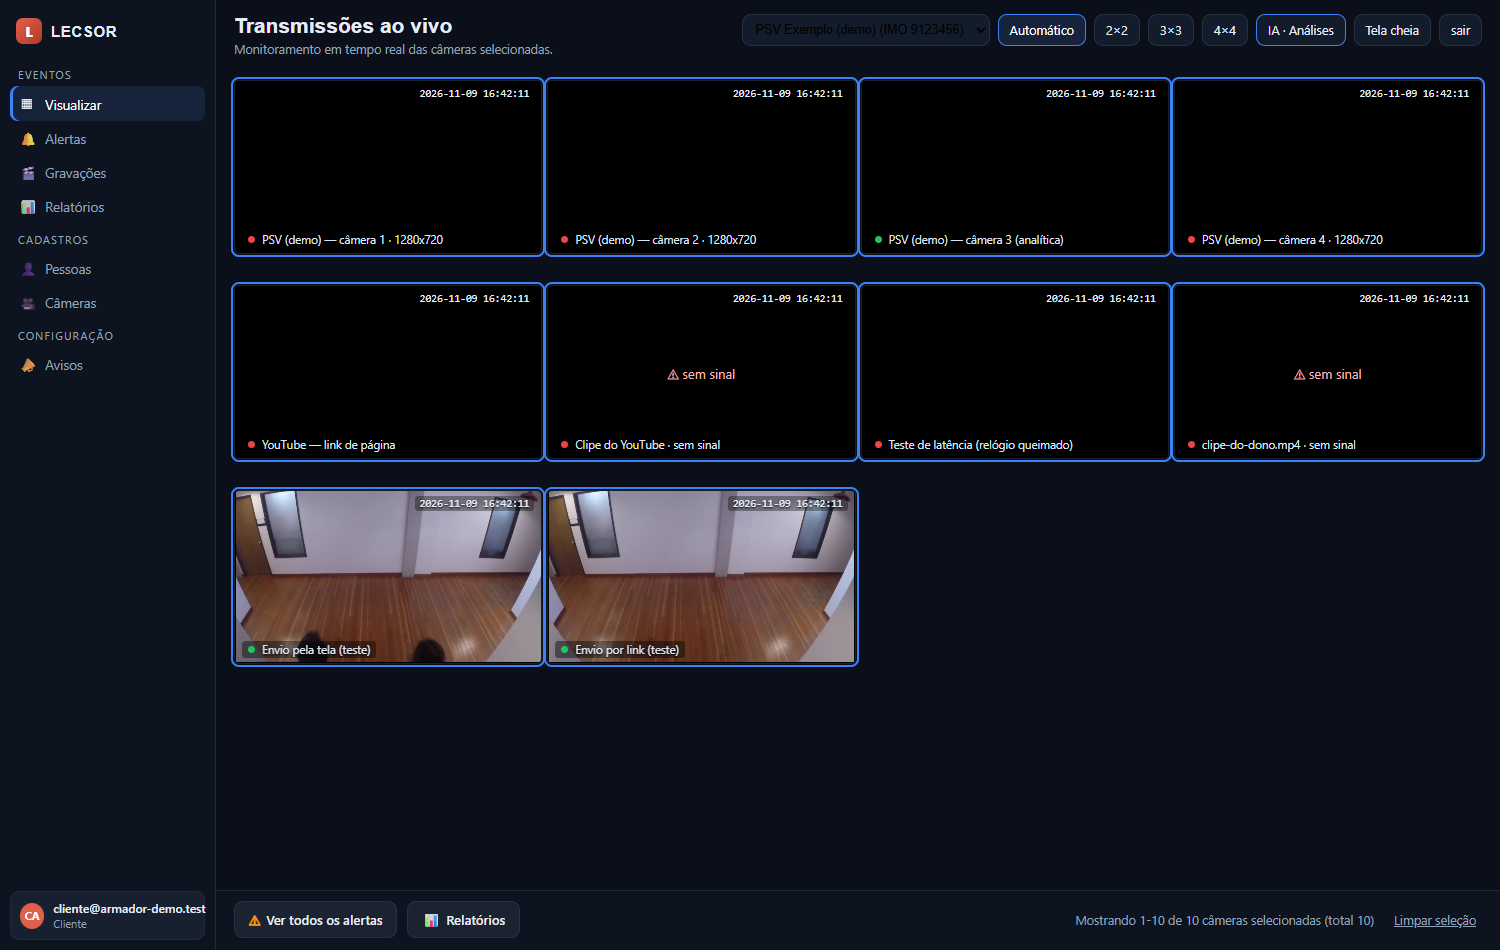
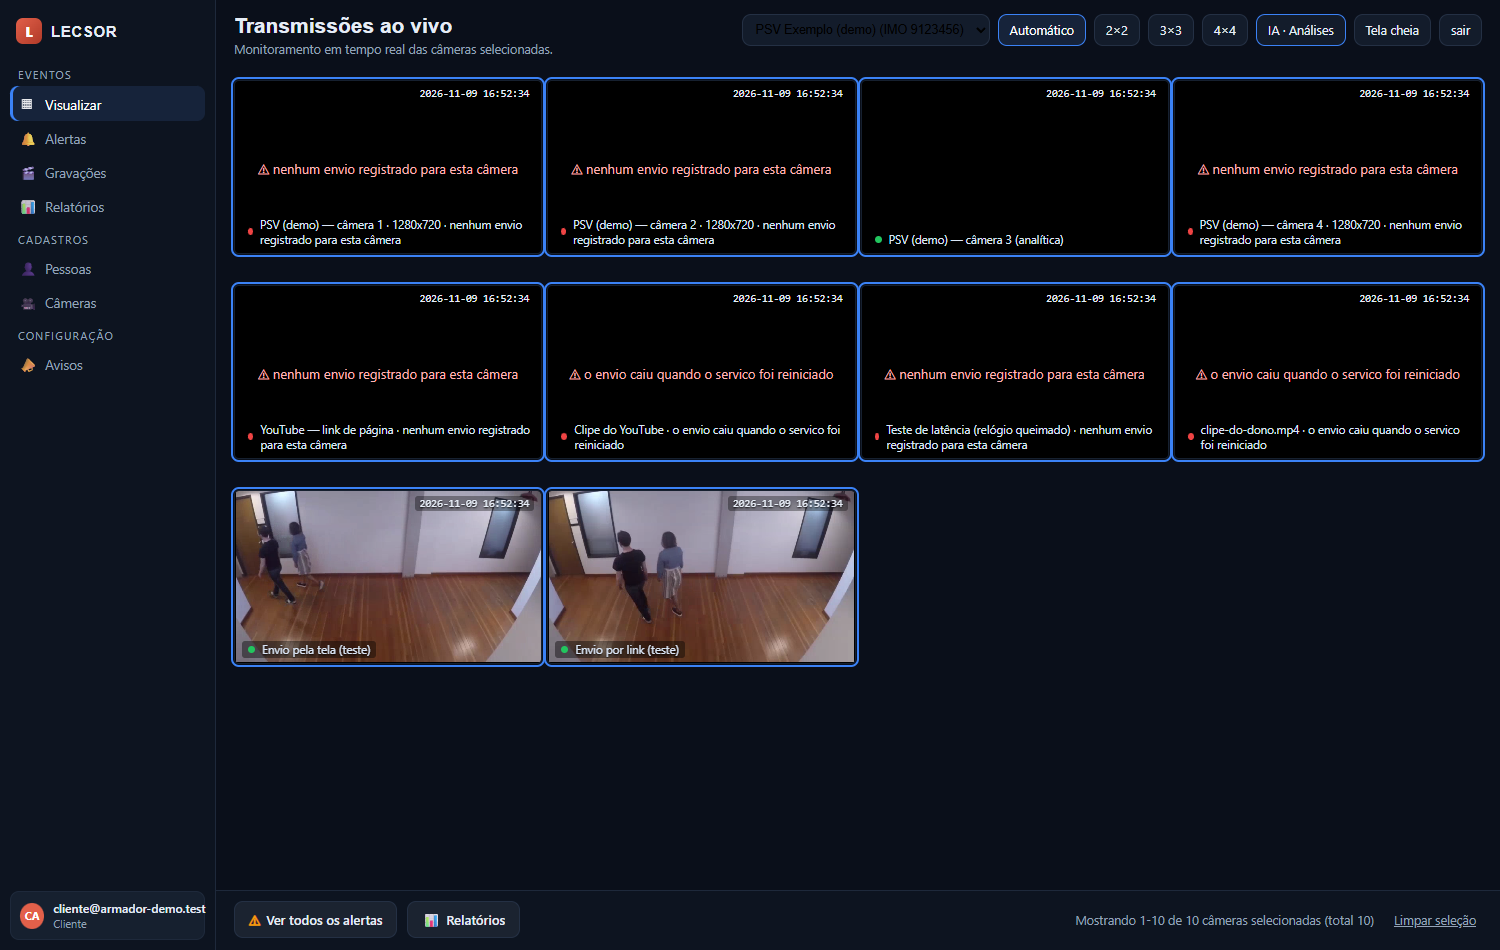
Entrada bruta da fonte crua: compressao e banda economizada do streaming ao vivo

diff --git a/admin/admin.js b/admin/admin.js
@@ -333,7 +333,8 @@ function telaTempoReal(t) {
     const linhas = (m.fluxos || []).map((f) => ({
       fluxo: f.fluxo_id,
       comprimindo: f.vivo ? 'sim' : (f.erro ? 'ERRO: ' + f.erro : 'sem sinal'),
-      entrada: (f.entrada_mbps === null ? '—' : fmt(f.entrada_mbps, 3) + ' Mbps'),
+      entrada: (f.entrada_mbps === null ? '—' : fmt(f.entrada_mbps, 3) + ' Mbps' +
+        ((f.entrada_fonte || '').indexOf('bruto') === 0 ? ' (bruto)' : '')),
       saida: (f.saida_mbps === null ? '—' : fmt(f.saida_mbps, 3) + ' Mbps'),
       compressao: (f.compressao_pct === null ? '—' : fmt(f.compressao_pct) + '%'),
       economia: (f.economia_mbps === null ? '—' : fmt(f.economia_mbps, 3) + ' Mbps'),
@@ -555,7 +556,8 @@ function telaProducao(t) {
       ['Média de compressão', c.compressao_medio_pct === null ? '—' : fmt(c.compressao_medio_pct) + '%'],
       ['Banda utilizada', (c.banda_utilizada_mbps === null ? '—' : fmt(c.banda_utilizada_mbps, 3) + ' Mbps')],
       ['Banda economizada', (c.banda_economizada_mbps === null ? '—' : fmt(c.banda_economizada_mbps, 3) + ' Mbps'
-        + (c.entrada_mbps ? ' (entrada ' + fmt(c.entrada_mbps, 3) + ')' : ''))],
+        + (c.entrada_mbps ? ' (entrada ' + fmt(c.entrada_mbps, 3) + ' Mbps' +
+            ((c.entrada_fonte || '').indexOf('bruto') === 0 ? ', bruto teórico da captura' : '') + ')' : ''))],
       ['Horas de streaming', fmt(c.horas_streaming) + ' h'],
       ['Disponibilidade', (c.disponibilidade_pct === null || c.disponibilidade_pct === undefined)
         ? '—' : fmt(c.disponibilidade_pct, 2) + '% (' + fmt(c.minutos_no_ar, 0) + ' de ' + fmt(A.prodJanelaMin, 0) + ' min)'],

diff --git a/ground/producao.py b/ground/producao.py
@@ -18,11 +18,15 @@ from __future__ import annotations
 
 import json
 import os
+import sys
 import re
 import subprocess
 import time
 import urllib.request
 from datetime import datetime, timedelta, timezone
+
+sys.path.insert(0, str(os.path.dirname(os.path.abspath(__file__))))
+from entrada import entrada_teorica_kbps, origem_da_entrada  # noqa: E402
 
 from etapas import RAIZ, _agora as agora, conexao_banco, envio  # reaproveita a base da bancada
 
@@ -78,6 +82,7 @@ def fechar_minutos(*, limpar_amostras: bool = False) -> dict:
     with conexao_banco() as c:
         linhas = [dict(x) for x in c.execute("""
             SELECT a.ingestao_id, i.fluxo_id, i.camera_id, i.bitrate_entrada_kbps, i.fonte,
+                   MAX(i.resolucao) AS resolucao, MAX(i.fps_nativo) AS fps_nativo,
                    substr(a.em, 1, 16) AS minuto,   -- mantem o horario LOCAL (strftime converteria para UTC)
                    AVG(a.taxa_saida_kbps) AS saida_medio, AVG(a.corte_pct) AS corte_medio,
                    COUNT(*) AS amostras
@@ -94,7 +99,8 @@ def fechar_minutos(*, limpar_amostras: bool = False) -> dict:
             entrada = comp.get("bitrate_entrada_kbps")
             if not entrada and l.get("fonte"):
                 entrada = por_arquivo.get(os.path.basename(str(l["fonte"]).replace("\\", "/")))
-            entrada = entrada or l["bitrate_entrada_kbps"]
+            if not entrada:
+                entrada = entrada_teorica_kbps(l.get("resolucao"), l.get("fps_nativo"))
             saida = l["saida_medio"] or 0
             # a compressao do minuto e' recalculada com a entrada CERTA (do arquivo original):
             # o corte gravado na amostra usa a entrada da linha de ingestao, que no caso de um
@@ -272,7 +278,9 @@ def tempo_real() -> dict:
     fluxos = []
     for d in linhas:
         comp = originais.get(d["fluxo_id"]) or {}
-        entrada = (comp.get("bitrate_entrada_kbps") or d.get("bitrate_entrada_kbps") or 0) / 1000.0
+        medida_kbps = comp.get("bitrate_entrada_kbps") or d.get("bitrate_entrada_kbps")
+        entrada_kbps = medida_kbps or entrada_teorica_kbps(d.get("resolucao"), d.get("fps_nativo") or d.get("fps"))
+        entrada = (entrada_kbps or 0) / 1000.0
         saida = (d.get("bitrate_saida_kbps") or 0) / 1000.0
         cam = cameras.get(d.get("camera_id")) or por_fluxo.get(d["fluxo_id"]) or {}
         idade = _idade(d.get("atualizado_em") or "")
@@ -286,7 +294,9 @@ def tempo_real() -> dict:
             "estado": "enviando" if vivo else "parado",
             "erro": d.get("erro"),
             "idade_s": round(idade, 1) if idade is not None else None,
-            "entrada_mbps": round(entrada, 3), "saida_mbps": round(saida, 3),
+            "entrada_mbps": round(entrada, 3) if entrada else None, "saida_mbps": round(saida, 3),
+            "entrada_fonte": origem_da_entrada(d.get("resolucao"), d.get("fps_nativo") or d.get("fps"),
+                                              bool(medida_kbps)),
             "taxa_agora_mbps": round(saida, 3),
             "banda_economizada_mbps": round(max(0.0, entrada - saida), 3),
             "compressao_agora_pct": round((1 - saida / entrada) * 100, 2) if (entrada and saida) else None,
@@ -375,6 +385,10 @@ def resumo_producao(*, dias: int = 30, embarcacao_id: str | None = None, camera_
         mb = l["mb"] or 0
         saida_mbps = round(mb * 8 / segundos, 3) if segundos else None
         entrada_mbps = round((l["entrada_medio"] or 0) / 1000, 3) if l["entrada_medio"] else None
+        # minuto fechado ANTES desta correcao ficou sem entrada (fonte crua); completa com o bruto do
+        # proprio fluxo vivo, senao o card do dono continuaria mostrando "—" e economia zero
+        if not entrada_mbps:
+            entrada_mbps = (ao_vivo.get(l["fluxo_id"]) or {}).get("entrada_mbps")
         cam = cameras.get(l["camera_id"]) or {}
         emb_id = cam.get("embarcacao_id") or l["embarcacao_id"]
         emb = embarcacoes.get(emb_id) or {}
@@ -385,6 +399,9 @@ def resumo_producao(*, dias: int = 30, embarcacao_id: str | None = None, camera_
             "compressao_medio_pct": (round(l["compressao_medio"], 2)
                                      if (l["compressao_medio"] is not None and l["compressao_medio"] >= 0) else None),
             "entrada_mbps": entrada_mbps,
+            "entrada_fonte": ("bruto teorico da fonte crua (webcam/sintetica)"
+                              if (ao_vivo.get(l["fluxo_id"]) or {}).get("tipo") in ("camera", "sintetica")
+                              else ("medida na fonte" if entrada_mbps else "sem medida")),
             "banda_utilizada_mbps": saida_mbps,
             "banda_economizada_mbps": (round(max(0.0, entrada_mbps - saida_mbps), 3)
                                        if (entrada_mbps and saida_mbps) else None),
@@ -407,9 +424,13 @@ def resumo_producao(*, dias: int = 30, embarcacao_id: str | None = None, camera_
             "embarcacao": emb.get("nome") or f.get("embarcacao_id") or "—",
             "camera_id": f.get("camera_id") or f["fluxo_id"],
             "camera": f.get("camera_rotulo") or cam.get("rotulo") or f.get("rotulo") or f["fluxo_id"],
-            "fluxo_id": f["fluxo_id"], "tipo": f.get("tipo"), "compressao_medio_pct": None,
-            "entrada_mbps": None, "banda_utilizada_mbps": f.get("saida_mbps") or None,
-            "banda_economizada_mbps": None,
+            "fluxo_id": f["fluxo_id"], "tipo": f.get("tipo"),
+            "compressao_medio_pct": (round((1 - (f.get("saida_mbps") or 0) / f["entrada_mbps"]) * 100, 2)
+                                     if f.get("entrada_mbps") and f.get("saida_mbps") else None),
+            "entrada_mbps": f.get("entrada_mbps"), "banda_utilizada_mbps": f.get("saida_mbps") or None,
+            "entrada_fonte": f.get("entrada_fonte"),
+            "banda_economizada_mbps": (round(max(0.0, (f.get("entrada_mbps") or 0) - (f.get("saida_mbps") or 0)), 3)
+                                       if (f.get("entrada_mbps") and f.get("saida_mbps")) else None),
             "horas_streaming": round((f.get("segundos_no_ar") or 0) / 3600, 2),
             "mb_enviados": round(f.get("mb_enviados") or 0, 2), "minutos_no_ar": 0,
             "disponibilidade_pct": None, "de": None, "ate": None, "estado": "enviando",

diff --git a/ground/ingestao.py b/ground/ingestao.py
@@ -235,6 +235,9 @@ def iniciar(fonte: str, *, rotulo: str, fluxo_id: str | None = None, bitrate: st
              tipo, 1 if repetir else 0, codec, bitrate,
              s.get("resolucao"), s.get("fps"), s.get("bitrate_kbps"), "iniciando", proc.pid, str(log), agora(), agora()))
         ident = cur.lastrowid
+        if tipo in ("camera", "sintetica"):
+            # a resolucao real da webcam so se sabe DEPOIS que ela publica: sonda o caminho uma vez
+            threading.Thread(target=_sondar_publicado, args=(ident, fluxo_id), daemon=True).start()
         if registrar_camera:
             c.execute("""INSERT INTO cameras (id, embarcacao_id, rotulo, fluxo_id, local, ativo)
                          VALUES (?,?,?,?,?,1)
@@ -551,3 +554,36 @@ def limpar_vivos_mortos() -> int:
     if n:
         print(f"[envios] {n} envio(s) vivo(s) marcados como parados no inicio (processo morto)", flush=True)
     return n
+
+
+def _sondar_publicado(ident: int, fluxo_id: str) -> None:
+    """Corrige a resolucao/fps do fluxo vivo com o que o mediamtx REALMENTE publicou.
+
+    Sem isso a linha guardava o NOME do dispositivo no lugar da resolucao, e o bruto equivalente
+    (usado para dizer compressao e banda economizada) ficava sem base de calculo.
+    """
+    for espera in (3, 3, 4, 5, 6, 8, 10):
+        time.sleep(espera)
+        try:
+            saida = subprocess.run(["ffprobe", "-v", "error", "-select_streams", "v:0",
+                                    "-show_entries", "stream=width,height,avg_frame_rate", "-of", "json",
+                                    f"rtsp://127.0.0.1:8554/{fluxo_id}"],
+                                   capture_output=True, text=True, timeout=15).stdout
+            st = (json.loads(saida or "{}").get("streams") or [{}])[0]
+            if not (st.get("width") and st.get("height")):
+                continue
+            fps = None
+            taxa = st.get("avg_frame_rate") or ""
+            if "/" in taxa and taxa != "0/0":
+                cima, _, baixo = taxa.partition("/")
+                try:
+                    fps = round(float(cima) / float(baixo or 1), 2)
+                except Exception:
+                    fps = None
+            with conexao() as c:
+                c.execute("UPDATE ingestoes SET resolucao=?, fps_nativo=COALESCE(?, fps_nativo) WHERE id=?",
+                          (f"{st['width']}x{st['height']}", fps, ident))
+            print(f"[envios] {fluxo_id}: resolucao publicada {st['width']}x{st['height']}@{fps} fps", flush=True)
+            return
+        except Exception:
+            continue

diff --git a/ground/entrada.py b/ground/entrada.py
@@ -1,0 +1,51 @@
+#!/usr/bin/env python3
+"""Quanto a fonte "vale" em banda bruta — o que entra, antes de comprimir.
+
+Duas situacoes, e a tela precisa dizer QUAL e a de cada linha:
+
+* **Fonte ja comprimida** (arquivo MP4, camera RTSP/H.264): a entrada e MEDIDA (`ffprobe`/registro de
+  compressao). E aqui que "banda economizada" e a economia real do re-encode.
+* **Fonte crua** (webcam dshow, `testsrc2`): nao existe fluxo comprimido de entrada; o que existe e o
+  bruto equivalente a resolucao e quadros por segundo. A regra do projeto e' `W x H x fps x bits-por-pixel / 8`
+  (1080p30 em 4:2:0 8 bits = 746,5 Mbps). Isso NAO quer dizer que o link levou 746 Mbps: quer dizer que
+  mandar esse video cru custaria isso — por isso a origem vai rotulada na tela.
+"""
+from __future__ import annotations
+
+import re
+
+BITS_POR_PIXEL_420 = 12.0   # 4:2:0 8 bits: 1,5 amostra/pixel x 8 bits
+BITS_POR_PIXEL_422 = 16.0   # 4:2:2 8 bits (caso do 4:2:2 10-bit do alvo, se medido)
+BITS_POR_PIXEL_RGB = 24.0   # RGB 8 bits
+
+
+def resolucao_em_pixels(resolucao: str | None) -> tuple[int, int] | None:
+    m = re.match(r"^\s*(\d+)\s*[xX×]\s*(\d+)\s*$", str(resolucao or ""))
+    if not m:
+        return None
+    largura, altura = int(m.group(1)), int(m.group(2))
+    return (largura, altura) if largura and altura else None
+
+
+def entrada_teorica_kbps(resolucao: str | None, fps: float | None,
+                         bits_por_pixel: float = BITS_POR_PIXEL_420) -> float | None:
+    """Banda bruta equivalente da fonte crua, em kbps. None quando nao da' para saber resolucao/fps."""
+    pixels = resolucao_em_pixels(resolucao)
+    try:
+        quadros = float(fps or 0)
+    except (TypeError, ValueError):
+        quadros = 0.0
+    if not pixels or quadros <= 0:
+        return None
+    largura, altura = pixels
+    return largura * altura * quadros * bits_por_pixel / 1000.0
+
+
+def origem_da_entrada(resolucao: str | None, fps: float | None, medido: bool) -> str:
+    """Rotulo curto para a tela dizer se a entrada foi medida ou e' o bruto teorico."""
+    if medido:
+        return "medida na fonte"
+    pixels = resolucao_em_pixels(resolucao)
+    if not pixels:
+        return "sem medida"
+    return f"bruto teorico {pixels[0]}x{pixels[1]}@{int(fps or 0)} (4:2:0 8 bits)"

diff --git a/ground/etapas.py b/ground/etapas.py
@@ -20,6 +20,9 @@ import argparse, json, os, re, subprocess, sys, time, urllib.request
 from pathlib import Path
 
 sys.path.insert(0, str(Path(__file__).resolve().parent))
+from entrada import entrada_teorica_kbps as _entrada_teorica_kbps, origem_da_entrada as _origem_da_entrada  # noqa: E402
+
+sys.path.insert(0, str(Path(__file__).resolve().parent))
 RAIZ = Path(__file__).resolve().parent.parent
 COMPRIMIDOS = RAIZ / "ground" / "envios" / "comprimido"
 MEDIAMTX_API = "http://127.0.0.1:9997"
@@ -370,13 +373,18 @@ def metricas_ao_vivo() -> dict:
                          "mb_enviados": 0.0, "fluxos": 0}
     for d in linhas:
         comp = originais.get(d["fluxo_id"]) or {}
-        entrada = (comp.get("bitrate_entrada_kbps") or d.get("bitrate_entrada_kbps") or 0) / 1000.0
+        medida_kbps = comp.get("bitrate_entrada_kbps") or d.get("bitrate_entrada_kbps")
+        # fonte crua (webcam/sintetica) nao tem entrada medida: usa o bruto equivalente a resolucao e fps
+        entrada_kbps = medida_kbps or _entrada_teorica_kbps(d.get("resolucao"), d.get("fps") or d.get("fps_nativo"))
+        entrada = (entrada_kbps or 0) / 1000.0
         saida = (d.get("bitrate_saida_kbps") or 0) / 1000.0
         idade = _segundos(d.get("atualizado_em") or "")
         d.update({
             "entrada_mbps": round(entrada, 3), "saida_mbps": round(saida, 3),
             "economia_mbps": round(max(0.0, entrada - saida), 3),
             "erro": d.get("erro"),
+            "entrada_fonte": _origem_da_entrada(d.get("resolucao"), d.get("fps") or d.get("fps_nativo"),
+                                                bool(medida_kbps)),
             "compressao_pct": round((1 - saida / entrada) * 100, 2) if (entrada and saida) else None,
             "compressao_arquivo_pct": comp.get("compressao_pct"), "ssim": comp.get("ssim"),
             "mbps_agora": round(saida, 3), "fps_agora": d.get("fps"),

diff --git a/ground/EVIDENCIA-envio-video-teste.md b/ground/EVIDENCIA-envio-video-teste.md
@@ -346,3 +346,35 @@ Medido: 2º envio da mesma webcam → `422 a webcam "ACER HD User Facing" ja est
 "Webcam bancada (ao vivo)" (id 143). Pare esse envio antes de transmitir de novo.`; fonte que não abre →
 `estado='erro'` com motivo; card vivo → `Bancada de testes (propria)` / `enviando` / 1,596 Mbps.
 Suíte `e2e-envios` verde com os 4 checks novos (bloco 11 = 87 verificações, todas ok).
+
+## Entrada, compressão e banda economizada de uma fonte CRUA (09/11/2026)
+
+O dono perguntou: *"onde estão as informações de entrada, compressão e banda economizada?"* — na tela Tempo
+real, o fluxo vivo mostrava **Entrada 0 Mbps**, **Compressão agora —** e **Banda economizada 0 Mbps**.
+
+Causa: a entrada só era lida do registro de compressão (arquivo) ou da linha de ingestão. Um **arquivo**
+tem bitrate medido; uma **webcam (dshow)/`testsrc2` não tem** — a captura é crua, sem fluxo comprimido de
+entrada — então `entrada = 0`, e sem entrada não há compressão nem economia para calcular. Além disso a
+resolução do fluxo vivo era gravada como **o nome do dispositivo** no lugar de "1280x720".
+
+O que mudou (módulo novo `ground/entrada.py`):
+1. **`entrada_teorica_kbps(resolucao, fps)`** — a banda bruta equivalente da fonte crua pela regra do
+   projeto: `W x H x fps x 12 bits/pixel / 1000` (4:2:0 8 bits; 1080p30 = 746,5 Mbps; 720p30 = 331,8 Mbps).
+2. **A resolução real é sondada** depois que a fonte publica (`ffprobe` no caminho do mediamtx): a linha
+   passou a guardar `1280x720@30` em vez de `ACER HD User Facing`.
+3. **Entrada medida tem prioridade**: quando existe medição (arquivo comprimido, câmera H.264), vale a
+   medição; o bruto só entra quando não existe fonte comprimida.
+4. **A tela diz de onde veio cada número** — coluna Entrada com "(bruto)" e o rótulo
+   `bruto teorico 1280x720@30 (4:2:0 8 bits)` / `medida na fonte`, para ninguém ler 331 Mbps como banda
+   que passou no link.
+5. **O histórico (`fechar_minutos`) usa a mesma regra**, e os 45 minutos fechados antes desta correção
+   foram recompletados com a entrada do próprio fluxo.
+
+Medido agora (fluxo `vivo-webcam-bancada-ao-vivo`): entrada **331,776 Mbps (bruto 1280x720@30)** → saída
+**1,609 Mbps** = **99,52%** de compressão · banda economizada **330,167 Mbps** · 4,9 MB enviados ·
+0 perdidos · 30 fps. Card da Produção: "Banda economizada 330,178 Mbps (entrada 331,776 Mbps, bruto
+teórico da captura)".
+
+**O que este número é e o que não é:** é o bruto da captura, não banda que trafegou. Numa câmera de bordo
+que já entrega H.264 (RTSP do DVR), a entrada será o bitrate medido do próprio stream (ex.: 4 Mbps) e a
+economia será a do re-encode — que é o número do produto, comparável ao alvo de ≥73% de corte.
